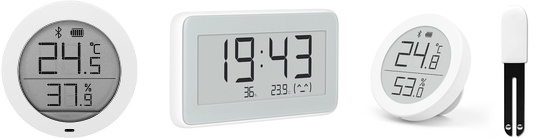
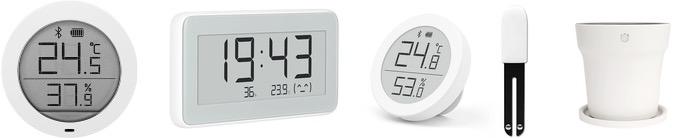
Xiaomi FlowerPot support (RoPot, HHCCPOT002).

diff --git a/custom_components/mitemp_bt/const.py b/custom_components/mitemp_bt/const.py
@@ -26,8 +26,9 @@ CONF_HMAX = 99.9
 
 # Xiaomi sensor types dictionary with offset for parser
 XIAOMI_TYPE_DICT = {
-    "209800": ["HHCCJCY01", 1],
-    "20AA01": ["LYWSDCGQ", 0],
-    "205B04": ["LYWSD02", 1],
-    "304703": ["CGG1", 0],
+    '209800': ["HHCCJCY01", 1],
+    '20AA01': ["LYWSDCGQ", 0],
+    '205B04': ["LYWSD02", 1],
+    '304703': ["CGG1", 0],
+    '205D01': ["HHCCPOT002", 1]
 }

diff --git a/info.md b/info.md
@@ -9,24 +9,11 @@
 
 {% if installed and version_installed != selected_tag %}
 
-# Changes since 0.3.0 (please recheck updated readme)
+# Changes since 0.4.1
 
-In addition to LYWSDCGQ, added support for the following Xiaomi sensors:
+Added support for the following Xiaomi sensor:
 
-- LYWSD02 (rectangular body, E-Ink)
-- CGG1 (round body, E-Ink)
-- HHCCJCY01 (MiFlora)
-
-Attributes added:
-
-- RSSI in dBm (Received Signal Strength Indicator)
-- Device type
-
-Fixed:
-
-- Now the component correctly terminates the subprocesses,
-   there are no more zombies when restarting HA.
-- Improved malformed (or unknown?) messages detection.
+- HHCCPOT002 (FlowerPot, RoPot)
 
 {% endif %}
 
@@ -40,14 +27,20 @@ Supported sensors:
 
 - LYWSDCGQ
  (round body, segment LCD, broadcasts temperature, humidity and battery, about 20 readings per minute)
+
 - LYWSD02
  (rectangular body, E-Ink, broadcasts temperature and humidity, about 20 readings per minute, no battery info)
+
 - CGG1
  (round body, E-Ink, broadcasts temperature, humidity and battery, about 20 readings per minute)
+
 - HHCCJCY01
  (MiFlora, broadcasts temperature, moisture, illuminance, conductivity, 1 reading per minute, no battery info with firmware v3.2.1)
 
- *The amount of actually received data is highly dependent on the reception conditions (like distance and electromagnetic ambiance), readings numbers are indicated for good RSSI (Received Signal Strength Indicator) of about -70dBm till -75dBm.*
+- HHCCPOT002
+ (FlowerPot, RoPot, broadcasts moisture and conductivity, 1 reading per minute, no battery info...)
+
+ *The amount of actually received data is highly dependent on the reception conditions (like distance and electromagnetic ambiance), readings numbers are indicated for good RSSI (Received Signal Strength Indicator) of about -75 till -70dBm.*
 
 ## HOW TO INSTALL
 

diff --git a/README.md b/README.md
@@ -18,6 +18,9 @@ Supported sensors:
 - HHCCJCY01
  (MiFlora, broadcasts temperature, moisture, illuminance, conductivity, 1 reading per minute, no battery info with firmware v3.2.1)
 
+- HHCCPOT002
+ (FlowerPot, RoPot, broadcasts moisture and conductivity, 1 reading per minute, no battery info...)
+
  *The amount of actually received data is highly dependent on the reception conditions (like distance and electromagnetic ambiance), readings numbers are indicated for good RSSI (Received Signal Strength Indicator) of about -75 till -70dBm.*
 
 ## HOW TO INSTALL
